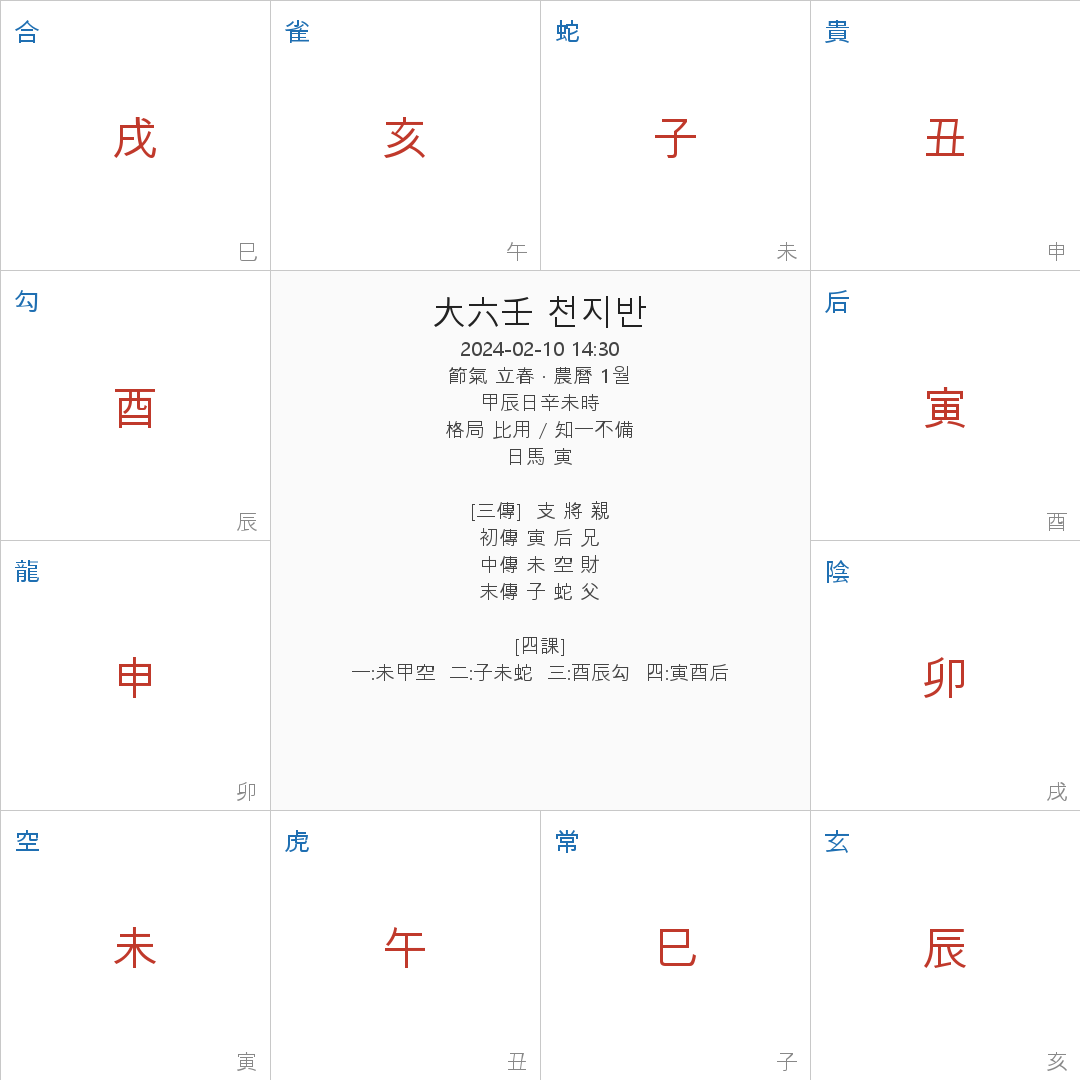
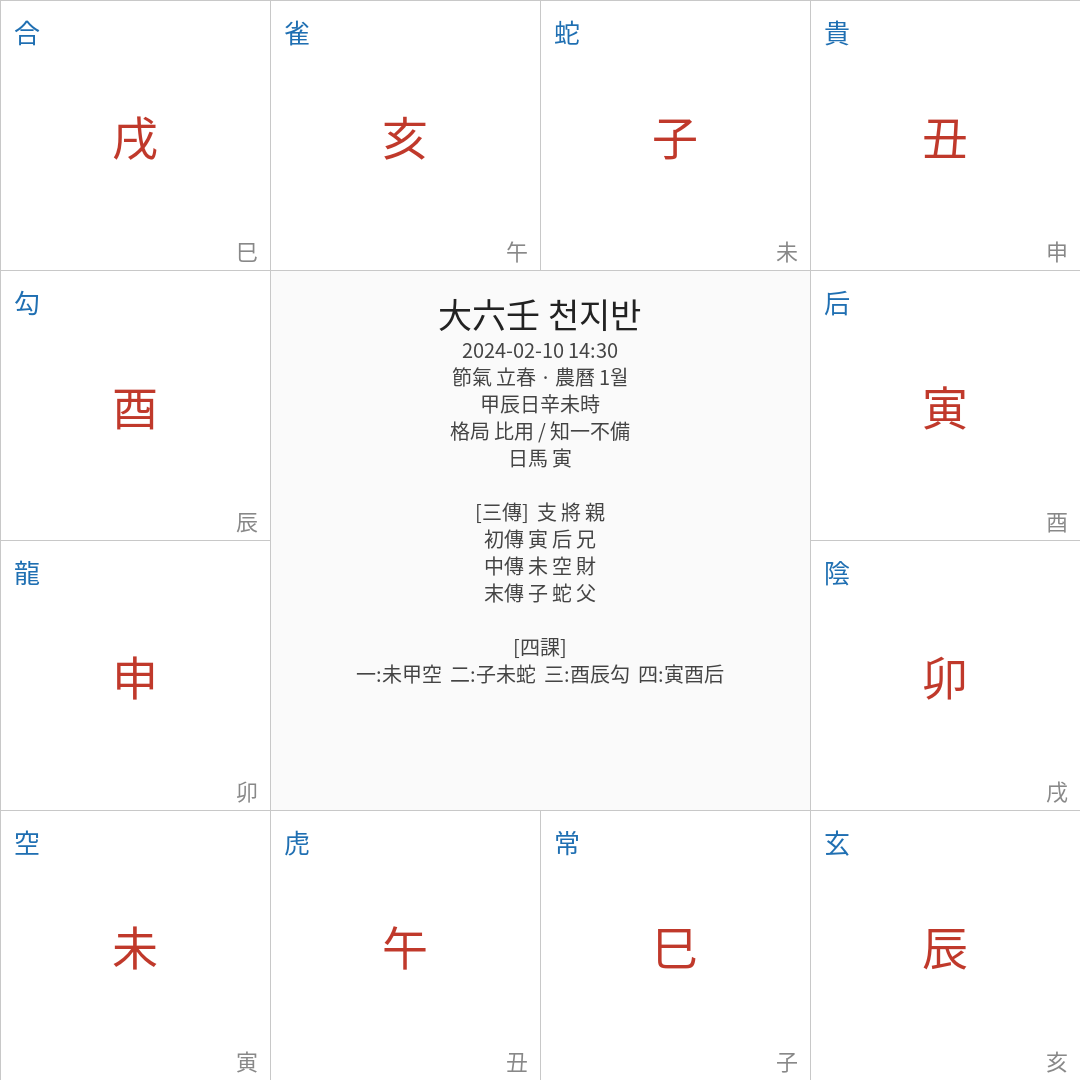
fix(FIX-02): bundle Noto Sans CJK, load explicitly (Pillow, no system-font reliance)
assets/NotoSansCJK-Regular.otf 동봉 + ImageFont.truetype로 명시 로드.
시스템 폰트 후보 순회/load_default 폴백(box 원인) 제거.
예제 천지반 PNG 재생성(한자/한글 box 0). STANDARD 5절 반영.

diff --git a/liuren_core.py b/liuren_core.py
@@ -101,20 +101,12 @@ def format_text(r: dict) -> str:
 
 
 # ---- PNG 렌더 ----
-_FONT_CANDIDATES = [
-    "C:/Windows/Fonts/malgun.ttf",
-    "C:/Windows/Fonts/batang.ttc",
-    "C:/Windows/Fonts/gulim.ttc",
-    "/usr/share/fonts/opentype/noto/NotoSansCJK-Regular.ttc",
-    "/usr/share/fonts/truetype/nanum/NanumGothic.ttf",
-]
+# repo 동봉 폰트를 명시적으로 로드(시스템 폰트 비의존, 기본 폰트 금지).
+_FONT_PATH = os.path.join(os.path.dirname(os.path.abspath(__file__)), "assets", "NotoSansCJK-Regular.otf")
 
 
 def _font(size: int) -> ImageFont.FreeTypeFont:
-    for p in _FONT_CANDIDATES:
-        if os.path.exists(p):
-            return ImageFont.truetype(p, size)
-    return ImageFont.load_default()
+    return ImageFont.truetype(_FONT_PATH, size)
 
 
 _SIZE = 1080

diff --git a/STANDARD.md b/STANDARD.md
@@ -36,6 +36,7 @@
 
 - SDK: 공식 MCP SDK (`@modelcontextprotocol/sdk` / Python `mcp`).
 - 전송: stdio.
+- ⚠️ 삼식(sxtwl/ephem 의존)은 Windows에서 **Python 3.10/3.11** 필요(3.12+ 휠 부재).
 
 ---
 
@@ -50,6 +51,7 @@ mcp-<name>/
 │  └─ index.ts          # MCP 서버 엔트리
 ├─ skill/
 │  └─ <name>.skill.md   # 페어링 스킬 (도구 호출·해석)
+├─ assets/              # 동봉 리소스(예: CJK 폰트) — §5
 ├─ examples/            # 예제 입력/출력(PNG 포함)
 ├─ package.json
 ├─ tsconfig.json
@@ -70,12 +72,55 @@ Python(삼식)은 `src/` 대신 `server.py`, `pyproject.toml`, `requirements.txt
 
 ---
 
-## 5. 차트 출력 규약 (PNG 통일)
+## 5. 차트 출력 규약 (PNG 통일) — **CJK 폰트 레시피 (확정, FIX-02)**
 
 - 모든 시각화는 **PNG(base64 image content)** 로 반환. (텔레그램/Hermes 호환)
-- SVG 기반 라이브러리는 **서버에서 SVG→PNG 변환**(`sharp` 등).
-- 표준 캔버스: 가로 **1080px** 기준, 여백 **48px**, 배경 흰색(투명 옵션 가능).
-  폰트는 한글 포함(예: Noto Sans KR / Malgun Gothic 계열).
+- 표준 캔버스: 가로 **1080px** 기준, 배경 흰색(투명 옵션 가능).
+- SVG 기반 라이브러리는 **서버에서 SVG→PNG 변환**(`sharp`/`resvg` 등) — 변환 시에도 아래 폰트 공급 원칙 동일.
+
+### 한글/한자 폰트는 반드시 "동봉 + 명시 로드 + family 지정"
+
+> **확정 진단**: 박스(□)는 인코딩 문제가 아니라 **글리프 부재**다.
+> 시스템에 `fonts-noto-cjk`를 깔아도 렌더러가 시스템 폰트를 못 찾으면 □ 그대로 →
+> **코드에서 폰트를 명시 공급**해야 한다.
+
+**3단계 원리** (하나라도 빠지면 □):
+1. repo `assets/`에 **OFL 폰트 동봉**(재배포 가능).
+2. 렌더러에 그 파일을 **경로로 명시 로드**.
+3. 텍스트 `font-family`를 **그 폰트명으로 지정** ← 로드만 하고 family를 `sans-serif`로 두면 계속 □.
+
+**폰트 선택**:
+- 한글 전용 도구 → `Noto Sans KR` (`assets/NotoSansKR-Regular.otf`, ~4.6MB)
+- 한자(번체 포함) 도구 → `Noto Sans CJK` (`assets/NotoSansCJK-Regular.otf`, ~16MB; 한글+CJK 전부 포함)
+
+**JS · node-canvas (`@napi-rs/canvas`)** — biorhythm/ziwei/numerology 적용:
+```ts
+import { GlobalFonts } from "@napi-rs/canvas";
+import { fileURLToPath } from "node:url";
+const FONT = "NotoSansKR"; // 공백 없는 단일 토큰 권장(font 문자열 파싱 안전)
+GlobalFonts.registerFromPath(
+  fileURLToPath(new URL("../assets/NotoSansKR-Regular.otf", import.meta.url)), // dist/ 기준 상대경로
+  FONT
+);
+ctx.font = `20px ${FONT}`; // ← family를 등록한 이름으로 (필수)
+```
+- ECharts면 `textStyle:{fontFamily:'NotoSansKR'}`(전역) / Chart.js면 `Chart.defaults.font.family='NotoSansKR'`.
+- `package.json`의 `files`에 `"assets"` 포함.
+
+**Python · Pillow** — liuren/qimen/taiyi 적용:
+```python
+import os
+from PIL import ImageFont
+_FONT = os.path.join(os.path.dirname(os.path.abspath(__file__)), "assets", "NotoSansCJK-Regular.otf")
+font = ImageFont.truetype(_FONT, size)   # 기본 폰트(ImageFont.load_default) 금지
+```
+
+**기타 렌더러**(참고):
+- `@resvg/resvg-js`: `font:{ fontFiles:['assets/...otf'], defaultFontFamily:'Noto Sans CJK KR' }` + SVG `font-family` 일치.
+- `satori`: `fonts:[{ name:'Noto Sans KR', data:<buffer>, weight:400, style:'normal' }]` + CSS `font-family` 일치.
+- `matplotlib`: `font_manager.fontManager.addfont(path)` 후 `rcParams['font.family']` 또는 `fontproperties=` 지정.
+
+**검증**: 예제 PNG를 재생성해 한글·한자 □가 **0건**인지 눈으로 확인(각 repo `examples/`).
 
 ---
 
@@ -93,6 +138,20 @@ npm install && npm run build
 {
   "mcpServers": {
     "<name>": { "command": "node", "args": ["/abs/path/mcp-<name>/dist/index.js"] }
+  }
+}
+```
+Python MCP(삼식):
+```bash
+git clone https://github.com/<org>/mcp-<name>.git
+cd mcp-<name>
+python -m venv .venv && . .venv/bin/activate
+pip install -r requirements.txt
+```
+```json
+{
+  "mcpServers": {
+    "<name>": { "command": "/abs/path/mcp-<name>/.venv/bin/python", "args": ["/abs/path/mcp-<name>/server.py"] }
   }
 }
 ```
@@ -118,7 +177,7 @@ npm install && npm run build
 ## 9. 공통 완료조건 (Definition of Done)
 
 - [ ] 빌드 통과 (`npm run build` / Python import)
-- [ ] 예제 입력으로 도구 1회 정상 응답 (PNG 있으면 PNG 포함)
+- [ ] 예제 입력으로 도구 1회 정상 응답 (PNG 있으면 PNG 포함, CJK □ 0건)
 - [ ] README 설치 블록으로 **클린 환경에서 설치 재현** 확인
 - [ ] `skill/<name>.skill.md` 1개 포함
 - [ ] GitHub 퍼블릭 공개 + repo URL 보고